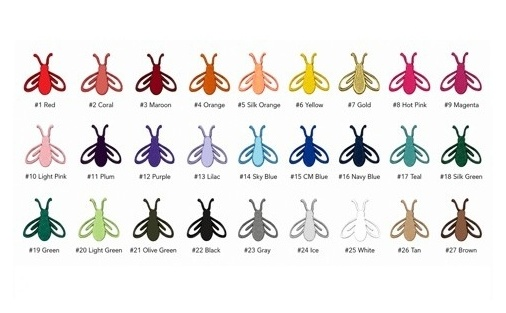
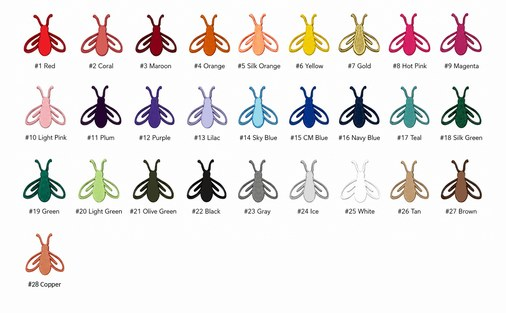
Add copper filament and merch admin refinements
Add support for Copper (#28) filament across merch pricing, order handling, and the color chart. This also tightens the merch admin by trimming Invoice/Payments columns, adding the Ship packing checklist pane, shortening view labels, and updating the build metadata. Test coverage was refreshed for the new color, invoice template tokens, item weight, and the current multi-item order payload format.

Changed region(s): [[0.0296, 0.0288, 0.9783, 0.9201]]

diff --git a/ourmerch.php b/ourmerch.php
@@ -7,7 +7,7 @@
 // RUNNING: if the footer is old after a deploy, it's stale OPcache (use
 // Clear PHP Cache), not a failed upload. Bump this on every change,
 // YYYY-MM-DD-[Letter], and it's the only place to bump.
-$merchBuild = '2026-10-03-A';
+$merchBuild = '2026-10-05-B';
 require __DIR__ . '/admin_guard.php'; // must come before anything else that might start a session
 require __DIR__ . '/pricing.php'; // 2026-08-18: for GILDAN_COLOR_ITEMS/FILAMENT_COLOR_ITEMS/merch_color_options_for_item() - powers the editable Color dropdown below
 require __DIR__ . '/merch_shipments.php'; // 2026-08-20: for merch_shipment_key() - see Finding 10, 2026-08-19 code review
@@ -31,6 +31,22 @@ require __DIR__ . '/print_plates.php'; // 2026-09-17: for print_plate_group_queu
 const MERCH_ADMIN_COLUMN_ORDER = [
     'OrderID', 'Name', 'Item', 'Quantity', 'Color',
     'Invoice Date', 'Pymt Date', 'Created', 'Fulfilled', 'Cancelled',
+];
+
+// 2026-10-05 (Steve): the Invoice and Payments views showed every column
+// (address, timestamp, IP, email ...) when only a few matter for the job.
+// Per-view column lists, applied in the browser by applyView() below: a
+// column NOT listed is hidden while that view is active, and the other
+// views (All, Create, Ship) still show everything. This only hides table
+// cells - nothing is removed from the data or the page. Keep the column
+// that carries the view's action button: Invoice Date holds Send Invoice,
+// Pymt Date holds Mark Paid. Cancelled stays because it is how a single
+// line is dropped before invoicing / an abandoned order is closed out.
+// Edit these two lists to change what each view shows; names must match
+// the table's column headers exactly.
+const MERCH_VIEW_COLUMNS = [
+    'needs-invoicing' => ['Name', 'Item', 'Color', 'Price', 'Invoice Date', 'Cancelled'],
+    'needs-payment' => ['Name', 'Item', 'Color', 'Price', 'Invoice Date', 'Pymt Date', 'Cancelled'],
 ];
 
 // Simple password gate (same login as ourguests.php - one admin, two
@@ -383,11 +399,17 @@ $merchEditCatalog = [
           // still holding 'active' as merchAdminView) degrades to the
           // same "show everything not fulfilled" behavior it always had,
           // instead of silently landing on a different view.
+          // 2026-10-05 (Steve): shortened labels - Invoice / Payments /
+          // Create / Ship (the full "Needs ..." name stays as the hover
+          // tooltip), "Cancelled" and "P/U @ Retreat" for the two
+          // checkboxes. Labels only: data-view values, element ids and all
+          // the JS are unchanged. Sort by Print Plate is deliberately not
+          // trimmed.
           echo '<button type="button" class="btn merch-view-btn" data-view="all" style="margin-right:8px; padding:4px 12px; font-size:0.85em;">All</button>';
-          echo '<button type="button" class="btn merch-view-btn" data-view="needs-invoicing" style="margin-right:8px; padding:4px 12px; font-size:0.85em;">Needs Invoicing</button>';
-          echo '<button type="button" class="btn merch-view-btn" data-view="needs-payment" style="margin-right:8px; padding:4px 12px; font-size:0.85em;">Needs Payment</button>';
-          echo '<button type="button" class="btn merch-view-btn" data-view="needs-creating" style="margin-right:8px; padding:4px 12px; font-size:0.85em;">Needs Creating</button>';
-          echo '<button type="button" class="btn merch-view-btn" data-view="needs-shipping" style="margin-right:8px; padding:4px 12px; font-size:0.85em;">Needs Shipping</button>';
+          echo '<button type="button" class="btn merch-view-btn" data-view="needs-invoicing" style="margin-right:8px; padding:4px 12px; font-size:0.85em;" title="Needs Invoicing">Invoice</button>';
+          echo '<button type="button" class="btn merch-view-btn" data-view="needs-payment" style="margin-right:8px; padding:4px 12px; font-size:0.85em;" title="Needs Payment">Payments</button>';
+          echo '<button type="button" class="btn merch-view-btn" data-view="needs-creating" style="margin-right:8px; padding:4px 12px; font-size:0.85em;" title="Needs Creating">Create</button>';
+          echo '<button type="button" class="btn merch-view-btn" data-view="needs-shipping" style="margin-right:8px; padding:4px 12px; font-size:0.85em;" title="Needs Shipping">Ship</button>';
           // 2026-09-17 (Steve): "sort the Needs Creating list to give me
           // an optimized list of same color gadgets I can print
           // together." NOT another data-view case below (applyView()
@@ -412,6 +434,13 @@ $merchEditCatalog = [
           // moment the buttons/view logic wires up, so there's no flash
           // of a checkbox that doesn't apply to the default "All" view.
           echo '<label id="merch-print-plate-label" style="display:none; margin-left:16px; font-size:0.85em; font-weight:normal; white-space:nowrap;"><input type="checkbox" id="merch-print-plate-toggle" /> Sort by Print Plate</label>';
+          // 2026-10-05 (Steve): the Ship view now opens on the Packing
+          // Checklist (packing_slips.php, shown in a frame below the filter
+          // bar) instead of the plain filtered list, same idea as Sort by
+          // Print Plate on Create. Uncheck this to get the plain list back;
+          // the choice is remembered for the tab, like the plate checkbox.
+          // Only visible on the Ship view (JS shows/hides the label).
+          echo '<label id="merch-pack-label" style="display:none; margin-left:16px; font-size:0.85em; font-weight:normal; white-space:nowrap;"><input type="checkbox" id="merch-pack-toggle" checked /> Packing Checklist</label>';
           // 2026-08-23: independent of the named views above (which
           // never show a cancelled row, full stop - nothing to act on
           // there) - this is a manual override for browsing/auditing,
@@ -419,7 +448,7 @@ $merchEditCatalog = [
           // which is the actual fix for "the list is growing lengthy
           // and I don't want to scroll past abandoned orders" (Steve,
           // 2026-08-23).
-          echo '<label style="margin-left:16px; font-size:0.85em; font-weight:normal; white-space:nowrap;"><input type="checkbox" id="merch-show-cancelled" /> Show cancelled</label>';
+          echo '<label style="margin-left:16px; font-size:0.85em; font-weight:normal; white-space:nowrap;"><input type="checkbox" id="merch-show-cancelled" /> Cancelled</label>';
           // 2026-08-25 (Steve): same independent-of-the-named-views
           // pattern as "Show cancelled" right above - there was no way to
           // isolate just the Pickup at Retreat orders on this page, which
@@ -427,7 +456,7 @@ $merchEditCatalog = [
           // happens all at once at the retreat rather than trickling out
           // like shipments do. Off by default so the page's default view
           // is unchanged for everyone else.
-          echo '<label style="margin-left:16px; font-size:0.85em; font-weight:normal; white-space:nowrap;"><input type="checkbox" id="merch-pickup-only" /> Pickup at Retreat only</label>';
+          echo '<label style="margin-left:16px; font-size:0.85em; font-weight:normal; white-space:nowrap;"><input type="checkbox" id="merch-pickup-only" /> P/U @ Retreat</label>';
           // 2026-09-24 (Steve): "I've deployed everything, but the fix
           // isn't showing up live." Root-caused to PHP OPcache on the
           // host serving stale compiled bytecode even after a
@@ -911,7 +940,7 @@ $merchEditCatalog = [
       ?>
       <div id="merch-print-plate-pane" class="merch-table-pane" style="display:none; padding:16px;">
         <?php if (empty($printPlateGroups)): ?>
-          <p style="text-align:center; color:#666;">Nothing here right now &mdash; either Needs Creating is empty, or everything left is a shirt/hat or a Stars &amp; Stripes order, neither of which go through this view.</p>
+          <p style="text-align:center; color:#666;">Nothing here right now &mdash; either the Create view is empty, or everything left is a shirt/hat or a Stars &amp; Stripes order, neither of which go through this view.</p>
         <?php else: ?>
           <p style="color:#666; font-size:0.85em; margin-top:0;">
             The same Needs Creating queue, grouped by color (most-ordered colors first), then matched against your confirmed plate combos and per-item capacities in <code>print_plates.php</code>. Every order line appears in exactly one plate below, full or partial &mdash; nothing is hidden or double-counted. When a plate can't fit everyone waiting on an item, whichever order(s) that would fully complete get priority over ones that would stay incomplete either way. A partial plate is still a candidate for combining by hand with something else in that color. Check a plate off once it's printed &mdash; that's recorded per order, so a multi-unit line that's only partly done just needs the rest on a later plate.
@@ -970,8 +999,27 @@ $merchEditCatalog = [
         <?php endif; ?>
       </div>
 
+      <!-- 2026-10-05: Ship view's Packing Checklist. packing_slips.php is the
+           whole checklist (same page the Pack List footer link opens), so its
+           Fulfilled checkboxes, Print button and "still in progress" sections
+           all work here unchanged. The frame loads the first time the Ship
+           view is shown, not on every page load. -->
+      <div id="merch-pack-pane" style="display:none; padding:0 0 8px;">
+        <iframe id="merch-pack-frame" title="Packing Checklist" style="width:100%; height:calc(100vh - 170px); min-height:480px; border:1px solid #ddd; background:#fff;"></iframe>
+      </div>
+
       <div class="button-container" style="text-align:center; margin-top:20px;">
         <p style="margin:0;">
+          <!-- 2026-10-05 (Steve): shortened link names, ordered roughly by
+               how often each is used (Inventory first), to be adjusted by
+               feel. Display text only - every href/target is unchanged. -->
+          <!-- 2026-10-02 (Steve): read-only "what can I ship from what I have
+               printed, and what should I print next?" report - see
+               merch_stock.php / merch_stock_report.php header comments.
+               2026-10-05: link text is now "Inventory" (the page itself is
+               still titled Stock &amp; Print Plan). -->
+          <a href="merch_stock_report.php" target="_blank" style="color: var(--accent);">Inventory &rarr;</a>
+          &nbsp;&mdash;&nbsp;
           <!-- 2026-09-20 (Steve, item #6): these used to be one click -
                the Shippo CSV download also popped the pack list open in
                a new tab, whether or not you actually wanted the CSV yet.
@@ -982,34 +1030,30 @@ $merchEditCatalog = [
                Fulfilled batch either way (packing_slips.php and
                shippo_export.php already compute that set the same way -
                see Finding 10, 2026-08-19 code review) - pick whichever
-               one you actually need right now. -->
-          <a href="shippo_export.php" style="color: var(--accent);">Download Shippo Export (paid, unshipped orders) &rarr;</a>
+               one you actually need right now. (Both links are for the
+               paid, unshipped orders.) -->
+          <a href="shippo_export.php" style="color: var(--accent);">Shippo Export &rarr;</a>
           &nbsp;&mdash;&nbsp;
-          <a href="packing_slips.php" target="_blank" style="color: var(--accent);">Pack List (paid, unshipped orders) &rarr;</a>
+          <a href="packing_slips.php" target="_blank" style="color: var(--accent);">Pack List &rarr;</a>
           &nbsp;&mdash;&nbsp;
           <!-- 2026-08-25: companion to the link above, for the Pickup at
                retreat side - see pickup_slips.php's header comment for why
                it needed its own checklist instead of reusing packing_slips.php. -->
-          <a href="pickup_slips.php" target="_blank" style="color: var(--accent);">Pickup Checklist (Pickup at Retreat orders) &rarr;</a>
+          <a href="pickup_slips.php" target="_blank" style="color: var(--accent);">Retreat Pickup &rarr;</a>
           &nbsp;&mdash;&nbsp;
-          <a href="export_emails.php" style="color: var(--accent);">Download Customer Emails &rarr;</a>
+          <a href="export_emails.php" style="color: var(--accent);">D/L Customer Emails &rarr;</a>
           &nbsp;&mdash;&nbsp;
           <!-- 2026-09-26 (Steve, for Janet): the shirts and hats still to
                be made, as a CSV she can open in Excel - see
                merch_export_shirts_hats.php's header comment for exactly
                which rows/columns it includes. -->
-          <a href="merch_export_shirts_hats.php" style="color: var(--accent);">Download Shirts &amp; Hats to Make (for Janet) &rarr;</a>
+          <a href="merch_export_shirts_hats.php" style="color: var(--accent);">D/L Shirts &amp; Hats &rarr;</a>
           &nbsp;&mdash;&nbsp;
           <!-- 2026-08-29: bulk payment-reminder feature - preview-then-
                confirm list of invoiced-but-unpaid Ship customers (see
                merch_reminders.php's header comment). Opens in its own
-               tab, same as the Pickup Checklist link above. -->
-          <!-- 2026-10-02 (Steve): read-only "what can I ship from what I have
-               printed, and what should I print next?" report - see
-               merch_stock.php / merch_stock_report.php header comments. -->
-          <a href="merch_stock_report.php" target="_blank" style="color: var(--accent);">Stock &amp; Print Plan &rarr;</a>
-          &nbsp;&mdash;&nbsp;
-          <a href="merch_reminders.php" target="_blank" style="color: var(--accent);">Send Payment Reminders &rarr;</a>
+               tab, same as the Retreat Pickup link above. -->
+          <a href="merch_reminders.php" target="_blank" style="color: var(--accent);">Payment Reminders &rarr;</a>
           &nbsp;&mdash;&nbsp;
           <span style="color:#bbb; font-size:0.75em;">Build <?= htmlspecialchars($merchBuild, ENT_QUOTES, 'UTF-8') ?></span>
         </p>
@@ -1034,6 +1078,7 @@ $merchEditCatalog = [
     // 2026-08-23 (#2): catalog data for the Item-edit form below - see
     // the PHP that builds $merchEditCatalog near the top of this file.
     const MERCH_EDIT_CATALOG = <?= json_encode($merchEditCatalog) ?>;
+    const MERCH_VIEW_COLUMNS = <?= json_encode(MERCH_VIEW_COLUMNS) ?>; // 2026-10-05: see the PHP constant of the same name
 
     // 2026-08-29 (Finding 9): every fetch() below that POSTs to
     // merch_update.php/merch_invoice.php/merch_edit_line.php now
@@ -1778,10 +1823,40 @@ $merchEditCatalog = [
     const printPlateToggle = document.getElementById('merch-print-plate-toggle');
     const printPlatePane = document.getElementById('merch-print-plate-pane');
     const merchTablePane = document.getElementById('merch-table-pane');
+    // 2026-10-05: Ship view's Packing Checklist (a frame onto
+    // packing_slips.php). On by default for Ship; unchecking it shows the
+    // plain list. The choice lives in sessionStorage like the plate box.
+    // The one function below now decides which of the three panes (plain
+    // table / plate pane / checklist frame) is showing.
+    const packLabel = document.getElementById('merch-pack-label');
+    const packToggle = document.getElementById('merch-pack-toggle');
+    const packPane = document.getElementById('merch-pack-pane');
+    const packFrame = document.getElementById('merch-pack-frame');
+    try {
+      if (packToggle && sessionStorage.getItem('merchAdminPackChecklist') === '0') packToggle.checked = false;
+    } catch (e) { /* storage unavailable - checklist just starts on */ }
     function updatePrintPlatePaneVisibility() {
       const shown = !!(printPlateToggle && printPlateToggle.checked);
+      const packShown = currentView === 'needs-shipping' && !!(packToggle && packToggle.checked);
       if (printPlatePane) printPlatePane.style.display = shown ? '' : 'none';
-      if (merchTablePane) merchTablePane.style.display = shown ? 'none' : '';
+      if (packPane) packPane.style.display = packShown ? '' : 'none';
+      if (packShown && packFrame && !packFrame.getAttribute('src')) packFrame.setAttribute('src', 'packing_slips.php');
+      if (merchTablePane) merchTablePane.style.display = (shown || packShown) ? 'none' : '';
+    }
+    if (packToggle) {
+      packToggle.addEventListener('change', () => {
+        try {
+          sessionStorage.setItem('merchAdminPackChecklist', packToggle.checked ? '1' : '0');
+        } catch (e) { /* storage unavailable - just won't be remembered */ }
+        if (!packToggle.checked) {
+          // Back to the plain list: reload so it reflects anything marked
+          // Fulfilled inside the checklist frame (the choice and the Ship
+          // view are both remembered, so it comes back on the plain list).
+          location.reload();
+          return;
+        }
+        updatePrintPlatePaneVisibility();
+      });
     }
     // 2026-09-26 (Steve): "When I'm in the Sort by Print Plate view and I
     // click a checkbox, it reloads the page and takes me out of that view."
@@ -1805,6 +1880,26 @@ $merchEditCatalog = [
       });
     }
 
+    // 2026-10-05 (Steve): per-view column trimming for Invoice and Payments
+    // (MERCH_VIEW_COLUMNS, defined next to MERCH_EDIT_CATALOG). Cells are
+    // matched to their column by header text, once; every other view shows
+    // all columns again.
+    let viewColumnNames = null; // column name per cell index, built on first use
+    function applyViewColumns(view) {
+      const table = merchTablePane ? merchTablePane.querySelector('table') : null;
+      if (!table) return;
+      if (viewColumnNames === null) {
+        viewColumnNames = Array.from(table.rows[0].cells).map((th) => th.textContent.trim());
+      }
+      const allowed = MERCH_VIEW_COLUMNS[view] || null;
+      Array.from(table.rows).forEach((row) => {
+        Array.from(row.cells).forEach((cell, i) => {
+          const name = viewColumnNames[i];
+          cell.style.display = (allowed && name !== undefined && allowed.indexOf(name) === -1) ? 'none' : '';
+        });
+      });
+    }
+
     function applyView(view) {
       currentView = view;
       sessionStorage.setItem('merchAdminView', view);
@@ -1824,6 +1919,12 @@ $merchEditCatalog = [
         }
         updatePrintPlatePaneVisibility();
       }
+      // 2026-10-05: the Packing Checklist checkbox only exists on Ship.
+      if (packLabel) {
+        packLabel.style.display = view === 'needs-shipping' ? '' : 'none';
+        updatePrintPlatePaneVisibility();
+      }
+      applyViewColumns(view);
       document.querySelectorAll('table tr[data-fulfilled]').forEach((tr) => {
         const created = tr.dataset.created === '1';
         const fulfilled = tr.dataset.fulfilled === '1';

diff --git a/tests/test_order_golden.php b/tests/test_order_golden.php
@@ -41,7 +41,7 @@ $base = "http://127.0.0.1:{$port}";
 // ---- Build the scratch sandbox --------------------------------------
 @exec('rm -rf ' . escapeshellarg($scratch));
 mkdir($scratch, 0777, true);
-$copies = ['pricing.php', 'merch_items.php', 'strings.php', 'merch_order.php', 'merch_notify.php', 'merch_backup.php', 'PHPMailer', 'strings', 'items', 'styles'];
+$copies = ['pricing.php', 'sff_timezone.php', 'id_sequence.php', 'merch_items.php', 'strings.php', 'merch_order.php', 'merch_notify.php', 'merch_backup.php', 'PHPMailer', 'strings', 'items', 'styles'];
 foreach ($copies as $c) {
     exec(sprintf('cp -r %s %s', escapeshellarg("$repo/$c"), escapeshellarg("$scratch/$c")));
 }
@@ -84,6 +84,21 @@ usleep(400000);
 
 function post_order(string $base, array $fields): string
 {
+    // 2026-10-05: merch_order.php has taken a multi-item list (POSTed as
+    // JSON in 'list') since 2026-09-14; this test still described one item
+    // as flat fields. Wrap the per-item fields into a one-line list here so
+    // every case below stays written the simple way.
+    $lineKeys = ['item', 'quantity', 'color', 'size', 'sleeve'];
+    $line = [];
+    foreach ($lineKeys as $k) {
+        if (array_key_exists($k, $fields)) {
+            $line[$k] = $fields[$k];
+            unset($fields[$k]);
+        }
+    }
+    if ($line) {
+        $fields['list'] = json_encode([$line]);
+    }
     $ch = curl_init("$base/merch_order.php");
     curl_setopt_array($ch, [
         CURLOPT_POST => true,
@@ -116,6 +131,12 @@ $cases = [
         'post' => ['item' => 'Circle Cutter Holder', 'quantity' => 3, 'color' => '#01 Red'],
         'expect' => ['Item' => 'Circle Cutter Holder', 'Quantity' => '3', 'Color' => '#01 Red',
                      'Price' => '54', 'Tax' => '3.78', 'Shipping' => '10'],
+    ],
+    'circle holder, Copper (#28), qty 1 -> no surcharge' => [
+        // 2026-10-05: Copper added as #28 on every filament item, at base price.
+        'post' => ['item' => 'Circle Cutter Holder', 'quantity' => 1, 'color' => '#28 Copper'],
+        'expect' => ['Item' => 'Circle Cutter Holder', 'Quantity' => '1', 'Color' => '#28 Copper',
+                     'Price' => '18', 'Tax' => '1.26', 'Shipping' => '6'],
     ],
     'tape gun holder qty 2 -> manual quote (cap)' => [
         // Price reflects the 2026-08-21 bump to $18 base (+$2 Rainbow).

diff --git a/tests/test_bundle_discount.php b/tests/test_bundle_discount.php
@@ -93,7 +93,7 @@ expect('pickup pair: total', $r['total'], 25 + 1.75);
 
 // ---- Add-on class facts (derived constants) --------------------------
 expect('add-on price', MERCH_PRICES['Tape Gun Add-On'], 10);
-expect('add-on weight 1.5oz', ITEM_WEIGHT_OZ['Tape Gun Add-On'], 1.5);
+expect('add-on weight 1.1oz', ITEM_WEIGHT_OZ['Tape Gun Add-On'], 1.1); // 2026-10-05: re-weighed (was 1.5)
 expect('add-on is mailer-tier', in_array('Tape Gun Add-On', MAILER_TIER_ITEMS, true) ? 'yes' : 'no', 'yes');
 expect('add-on Rainbow-eligible', in_array('Tape Gun Add-On', RAINBOW_ELIGIBLE_ITEMS, true) ? 'yes' : 'no', 'yes');
 expect('add-on Stars&Stripes-eligible', in_array('Tape Gun Add-On', STARS_STRIPES_ELIGIBLE_ITEMS, true) ? 'yes' : 'no', 'yes');
@@ -105,6 +105,7 @@ $rendered = merch_load_string('emails/invoice-body.text', [
     'discountLineText' => "- Bundle discount: -\$3.00\n",
     'tax' => '$1.75', 'shippingLineText' => "- Flat-rate shipping: \$6.00\n",
     'total' => '$32.75', 'last4Text' => '', 'venmoHandle' => 'x', 'paypalEmail' => 'x', 'accountNote' => '',
+    'zelleNoteText' => '', 'checkNoteText' => '', // tokens added to the template since this test was written
 ]);
 expect('invoice text: discount line present', strpos($rendered, 'Bundle discount: -$3.00') !== false ? 'yes' : 'no', 'yes');
 expect('invoice text: no unreplaced tokens', preg_match('/\{\{\w+\}\}/', $rendered) ? 'leftover' : 'clean', 'clean');
@@ -112,6 +113,7 @@ $renderedNoDiscount = merch_load_string('emails/invoice-body.text', [
     'name' => 'Test', 'lineItemsText' => "- Logo Hat: \$25.00\n", 'discountLineText' => '',
     'tax' => '$1.75', 'shippingLineText' => '', 'total' => '$26.75',
     'last4Text' => '', 'venmoHandle' => 'x', 'paypalEmail' => 'x', 'accountNote' => '',
+    'zelleNoteText' => '', 'checkNoteText' => '', // tokens added to the template since this test was written
 ]);
 expect('invoice text: clean when no discount', preg_match('/\{\{\w+\}\}|Bundle discount/', $renderedNoDiscount) ? 'dirty' : 'clean', 'clean');
 $pickup = merch_load_string('shipping/pickup-invoice-template', [

diff --git a/merch.php b/merch.php
@@ -419,7 +419,7 @@
 
           <!-- 3D-print filament colors - the cutter holders, tape gun holder,
                and tool holder stand. Numbering/grouping here matches
-               filament-color-chart.jpg exactly (#1 Red through #27 Brown) -
+               filament-color-chart.jpg exactly (#1 Red through #28 Copper) -
                keep the two in sync if the chart is ever renumbered. Rainbow
                lives here (not in the Gildan list above) since it's a filament
                print option, not a garment color; RAINBOW_ELIGIBLE_ITEMS in
@@ -459,6 +459,8 @@
                 <option value="#25 White">#25 &ndash; White</option>
                 <option value="#26 Tan">#26 &ndash; Tan</option>
                 <option value="#27 Brown">#27 &ndash; Brown</option>
+                <!-- 2026-10-05 (Steve): Copper, #28. Chart image gained a fourth row for it. -->
+                <option value="#28 Copper">#28 &ndash; Copper</option>
               </optgroup>
               <option value="Rainbow (+$2)" id="color-option-rainbow" hidden>Rainbow (+$2)</option>
               <option value="Stars &amp; Stripes (+$7)" id="color-option-stars-stripes" hidden>Stars &amp; Stripes (+$7)</option>

diff --git a/pricing.php b/pricing.php
@@ -437,6 +437,10 @@ const FILAMENT_COLORS = [
     '#01 Red', '#02 Coral', '#03 Maroon', '#04 Orange', '#05 Silk Orange', '#06 Yellow', '#07 Gold', '#08 Hot Pink', '#09 Magenta',
     '#10 Light Pink', '#11 Plum', '#12 Purple', '#13 Lilac', '#14 Sky Blue', '#15 CM Blue', '#16 Navy Blue', '#17 Teal', '#18 Silk Green',
     '#19 Green', '#20 Light Green', '#21 Olive Green', '#22 Black', '#23 Gray', '#24 Ice', '#25 White', '#26 Tan', '#27 Brown',
+    // 2026-10-05 (Steve): Copper added as #28, orderable on every filament
+    // item (no surcharge). Its swatch on the chart is a synthesized one,
+    // built from a video frame, until copper is next loaded and photographed.
+    '#28 Copper',
     // Rainbow and Stars & Stripes both live only in the filament list
     // (they're print options, not garment colors) - merch_color_options_
     // for_item() below strips whichever one doesn't apply for a given
